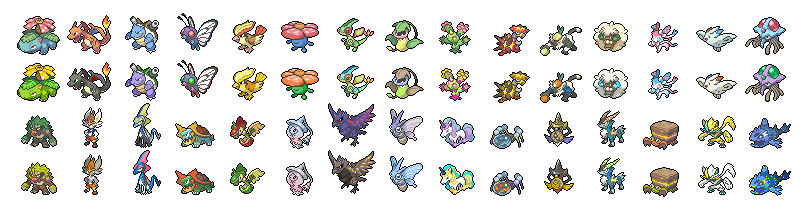
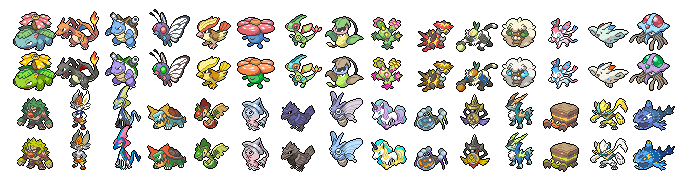
Add sprite dimensions section

diff --git a/readme.md b/readme.md
@@ -90,7 +90,7 @@ The **`forms`** object contains a list of all icons pertaining to a Pokémon. I
 | Key | Meaning |
 |:----|:--------|
 | `is_alias_of` | This form uses the sprite of another form and does not have its own image |
-| `is_unofficial_icon` | This sprite is not a verbatim original and has been edited in some way (e.g. *Pumpkaboo* and *Gourgeist*)<sup>†</sup> |
+| `is_unofficial_icon` | This sprite is not a verbatim original and has been edited in some way (e.g. *Pumpkaboo* and *Gourgeist*)† |
 | `is_unofficial_legacy_icon` | As above, but only for the smaller legacy 40×30 sprites (only used for *Melmetal*) |
 | `is_prev_gen_icon` | This sprite is actually from an earlier generation |
 | `has_right` | A unique right-facing icon is available (e.g. *Roselia*—only for Gen 7 Pokémon) |
@@ -106,9 +106,25 @@ Several files are available for processing the icons for inventory items:
 * `/data/item-unlinked.json` – all inventory icons not linked to an item ID—these are mostly duplicates (e.g. the *Metal Coat* icon is in both *"hold-item"* and *"evo-item"*, and so one goes unused) and legacy files
 * `/data/item-legacy.json` – a list of old item icons from previous gen games
 
-## Displaying icons
+## Sprite dimensions
 
-TODO: write this section.
+Since Gen 8, the Pokémon box sprites have become 68×56 (up from 40×30 in Gen 7) to accommodate larger icon designs. 
+
+<img align="left" src="resources/images/readme_gen8_size.png" width="177">
+
+Most Pokémon did not get a new sprite as of Gen 8, meaning their old sprite was padded to the new size. Sprites were padded from below, with one extra pixel of space on the bottom (see left).
+
+Since most Pokémon take up a very small amount of pixels of the allotted space, they'll look far more spaced apart than in Gen 7 if they're displayed adjacent to each other. This effect is especially noticeable for not-fully-evolved Pokémon.
+
+To somewhat mitigate this, the sprites can be made to overlap each other. In nearly all cases, only the empty space around the sprite will overlap—if there are multiple large icons next to each other (like several Gigantamax forms) the sprites themselves will overlap, but only a little.
+
+My recommended overlap is **-24px left** and **-16px top**, which is a compromise between bringing the smaller sprites closer together and not letting the larger sprites overlap. **Here's an example of what that looks like:**
+
+<center><img align="center" src="resources/images/offset_example_2x.png" width="512"></center>
+
+In this example, the larger sprites are quite close together, but not uncomfortably so, and the smaller sprites are not too far away from each other. The banner at the top of the page also uses this same amount of spacing.
+
+TODO: example
 
 ## Related projects
 
@@ -121,4 +137,4 @@ If your project uses PokéSprite and you'd like to be added to this list, feel f
 
 The source icons are © Nintendo/Creatures Inc./GAME FREAK Inc.
 
-Everything else, and usage of the programming code, is governed by the [MIT license](http://opensource.org/licenses/MIT).
+Everything else, and the programming code, is governed by the [MIT license](http://opensource.org/licenses/MIT).
